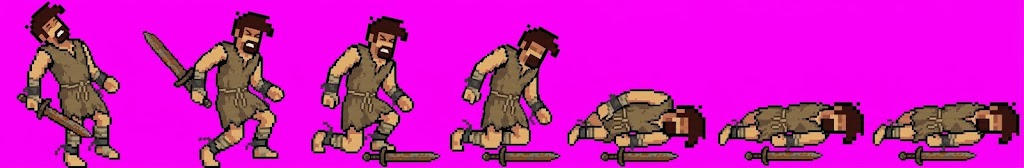
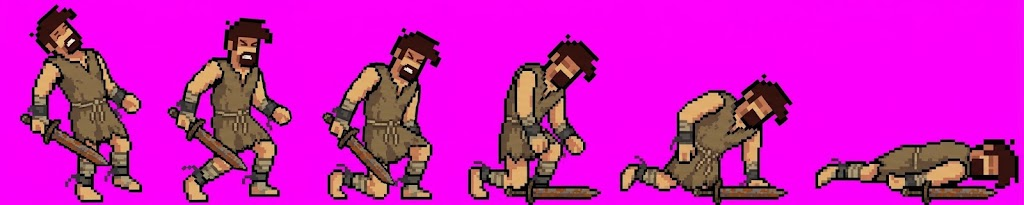
Muerte con espada: tira nueva de 6 cuadros

diff --git a/herramientas/sprites/tira_ia_a_hoja.py b/herramientas/sprites/tira_ia_a_hoja.py
@@ -20,7 +20,7 @@ a --movimiento (ataque aéreo) se centra por el torso, porque los pies no están
 Con --pies-centrados (recibir golpe) se queda ese centrado: la postura de los pies cambia
 tanto que buscar su encaje entre cuadros los despega del suelo.
 --escala amplía la tira, sin mezclar colores, antes de todo lo demás: si la figura mide
-165 px, 165 * 3 / 4 da los 120 de siempre con --escala 3 --factor 4.
+197 px, 197 * 5 / 8 da los 120 de siempre con --escala 5 --factor 8.
 --fila-pies sube la figura, para que la cabeza coincida con la de otra animación.
 La hoja se dibuja a escala 1/3 (ver ARMED_ANIMATION_SCALES en player.gd): figura de
 40 px como la caja de colisión, con el mismo detalle en pantalla que el prisionero.

diff --git a/docs/P42_CALABOZO_INICIAL.md b/docs/P42_CALABOZO_INICIAL.md
@@ -145,7 +145,7 @@ Se pusieron a mano en `tiles_calabozo_combate.tscn` para ver cómo reaccionan; n
 ## Sprites nuevos con espada
 
 - Lo que se ve al recoger la espada era el Fire Knight de prueba. Se sustituye animación por animación, en el `SpriteFrames` de `escenas/player.tscn`; las que no tienen tira todavía siguen siendo del caballero.
-- **Hecho:** `idle` (8 cuadros, 5 fps), `run` (8 cuadros, 14 fps) `jump up` / `jump down` (una tira de 6 cuadros) y `attack` / `attack 2` (otra de 6 cuadros) y `air attack` (5 cuadros de una tira de 6) `take hit` (4 cuadros, 8 fps) y `death` (7 cuadros, 9 fps), en `Elementals_fire_knight_FREE_v1.1/espada/`, con `original_ia.png` al lado, como las tiras del prisionero.
+- **Hecho:** `idle` (8 cuadros, 5 fps), `run` (8 cuadros, 14 fps) `jump up` / `jump down` (una tira de 6 cuadros) y `attack` / `attack 2` (otra de 6 cuadros) y `air attack` (5 cuadros de una tira de 6) `take hit` (4 cuadros, 8 fps) y `death` (6 cuadros, 9 fps), en `Elementals_fire_knight_FREE_v1.1/espada/`, con `original_ia.png` al lado, como las tiras del prisionero.
 - **Cómo se procesa una tira:** `python3 herramientas/sprites/tira_ia_a_hoja.py original_ia.png hoja.png --cuadros 8 --factor 2`. `--factor` es la altura de la figura en la tira entre 120 (la tira de `idle` mide 238 px). Quita el magenta y su halo, fija los pies entre cuadros, reduce con una paleta común y quita el ruido de color entre cuadros.
 - **Animaciones con movimiento** (`run`, salto): se añade `--movimiento`. Alinear por los pies las rompería, así que cada cuadro conserva su altura en la tira y se centra por la cabeza y el torso, para que no se desplace de lado. No se estabiliza el color. El torso de `run` queda a 1 px del de `idle`, y el cambio de una a otra no salta.
 - **Salto:** se procesa con `--cuadros 6 --movimiento --aire --en-suelo 0`. La tira dibuja la subida, pero esa ya la hace la física: con `--aire` todos los cuadros comparten la altura de la cabeza y son las piernas las que suben, y `--en-suelo 0` deja el cuadro agachado sobre sus pies. `jump up` usa los cuadros 0-3 a 12 fps y `jump down` los cuadros 3 y 5 a 6 fps. Ninguna va en bucle: `_update_animation` deja que se queden en su último cuadro hasta cambiar. El cuadro 4 sigue en la hoja, sin usar, porque la IA lo dibujó sin espada y parpadeaba a media caída. La figura mide hasta 44 px, por las piernas estiradas; cabeza y torso miden lo mismo que en `idle`.
@@ -155,7 +155,7 @@ Se pusieron a mano en `tiles_calabozo_combate.tscn` para ver cómo reaccionan; n
 - **Alcance:** los tajos usan el área `sword`, ajustada con `sword_hitbox_offset_x` y `sword_hitbox_scale_x`. La hoja llega a unos 24 px del centro y la caja a 45; la del caballero llegaba a 93. Se deja algo por delante de la hoja porque los enemigos se ajustaron a ese alcance. La física ve la caja un tick después de moverla, así que `_reset_attack_hitbox` la coloca antes del cuadro del golpe.
 - **Ataque aéreo:** se procesa con `--cuadros 6 --separar --movimiento --fila-pies 361`. En el aire los pies cambian y la espada desvía la media, así que se centra por la mediana de las columnas del torso. `--fila-pies 361` deja la cabeza a la altura de la del salto, y el cambio de una a otra no da brinco. Se usan los cuadros 1-5 a 8 fps (0.35 s con `air_attack_speed_multiplier`), con el golpe en los dos centrales y área `sword`. El cuadro 0 sigue en la hoja, sin usar, porque la tira corta la punta de la espada contra el borde; el cuadro 1 también es preparación y sale completo. Si el ataque acaba en plena subida, `jump up` sigue en su último cuadro y no vuelve a la pose agachada.
 - **Recibir golpe:** se procesa con `--cuadros 4 --separar --pies-centrados`. La postura de los pies cambia tanto que buscar su encaje entre cuadros los despegaba 3 px del suelo y los desplazaba de lado, así que se deja el centrado por pies de `--separar`. No va en bucle y dura 0.5 s; antes eran 0.55 s en bucle. Ese tiempo marca el aturdimiento, porque `take_damage` lo toma de la duración de la animación.
-- **Muerte:** se procesa con `--cuadros 7 --separar --pies-centrados --escala 3 --factor 4`. La tira mide 168 px de alto y la figura 165, dos tercios de las demás: `--escala 3` la amplía sin mezclar colores y `--factor 4` la baja a los 124 px de siempre, con la misma cabeza y torso. Los píxeles de esta tira son más pequeños y la túnica sale algo más granulada. El último cuadro dura 7 veces más para que el total sea 1.44 s, como la muerte anterior: `die()` espera la animación antes de reaparecer, y con 0.78 s apenas se veía el cuerpo tendido. La espada toca el cuerpo en todos los cuadros, así que la limpieza del borde no la quita. No va en bucle.
+- **Muerte:** se procesa con `--cuadros 6 --separar --pies-centrados --escala 5 --factor 8`. La tira mide 205 px de alto y la figura unos 197, menos que las demás: `--escala 5` la amplía sin mezclar colores y `--factor 8` la baja a los 123 px de siempre, con la misma cabeza y torso. La primera tira de 7 cuadros se descartó y esta la sustituye. Si la figura mide otra cosa, se elige el par de enteros que dé unos 120 px. El último cuadro dura 8 veces más para que el total sea 1.44 s, como la muerte anterior: `die()` espera la animación antes de reaparecer, y sin eso apenas se vería el cuerpo tendido. La espada toca el cuerpo en todos los cuadros, así que la limpieza del borde no la quita. No va en bucle.
 - **Reducción:** cada píxel toma un color de la paleta, no un promedio, y los bloques con al menos un 30 % de oscuro toman el oscuro, para que el contorno no se emborrone. Los que apenas cambian de tono entre cuadros toman su color habitual: la primera `idle` cambiaba cerca del 70 % de los píxeles en cada cuadro.
 - **Borde:** la silueta se suaviza con un vecindario de 5x5, se quitan los restos sueltos (eslabones de cadena que quedan separados) y su perfil se repinta de 1 px con un color oscuro fijo. Antes la mitad de los píxeles del borde conservaba tinte morado del fondo y el contorno salía dentado. Sacar los píxeles siguiendo la cuadrícula del dibujo (unos 4.17 px en la tira) deja buen borde, pero pierde la espada y el cinturón: no encaja igual en todo el cuadro.
 - **Resolución:** las hojas son de 864x384 por cuadro, con el pie en la fila 380 y el centro en la columna 432, y se dibujan a escala 1/3. Así la figura mide 40 px como la caja de colisión y da el detalle del prisionero, que usa hojas grandes a escala 0.18. A 40 px y escala 1 los píxeles medían el triple que los del prisionero y el personaje se veía borroso. Es una excepción a los sprites de escala entera, la misma del prisionero.
